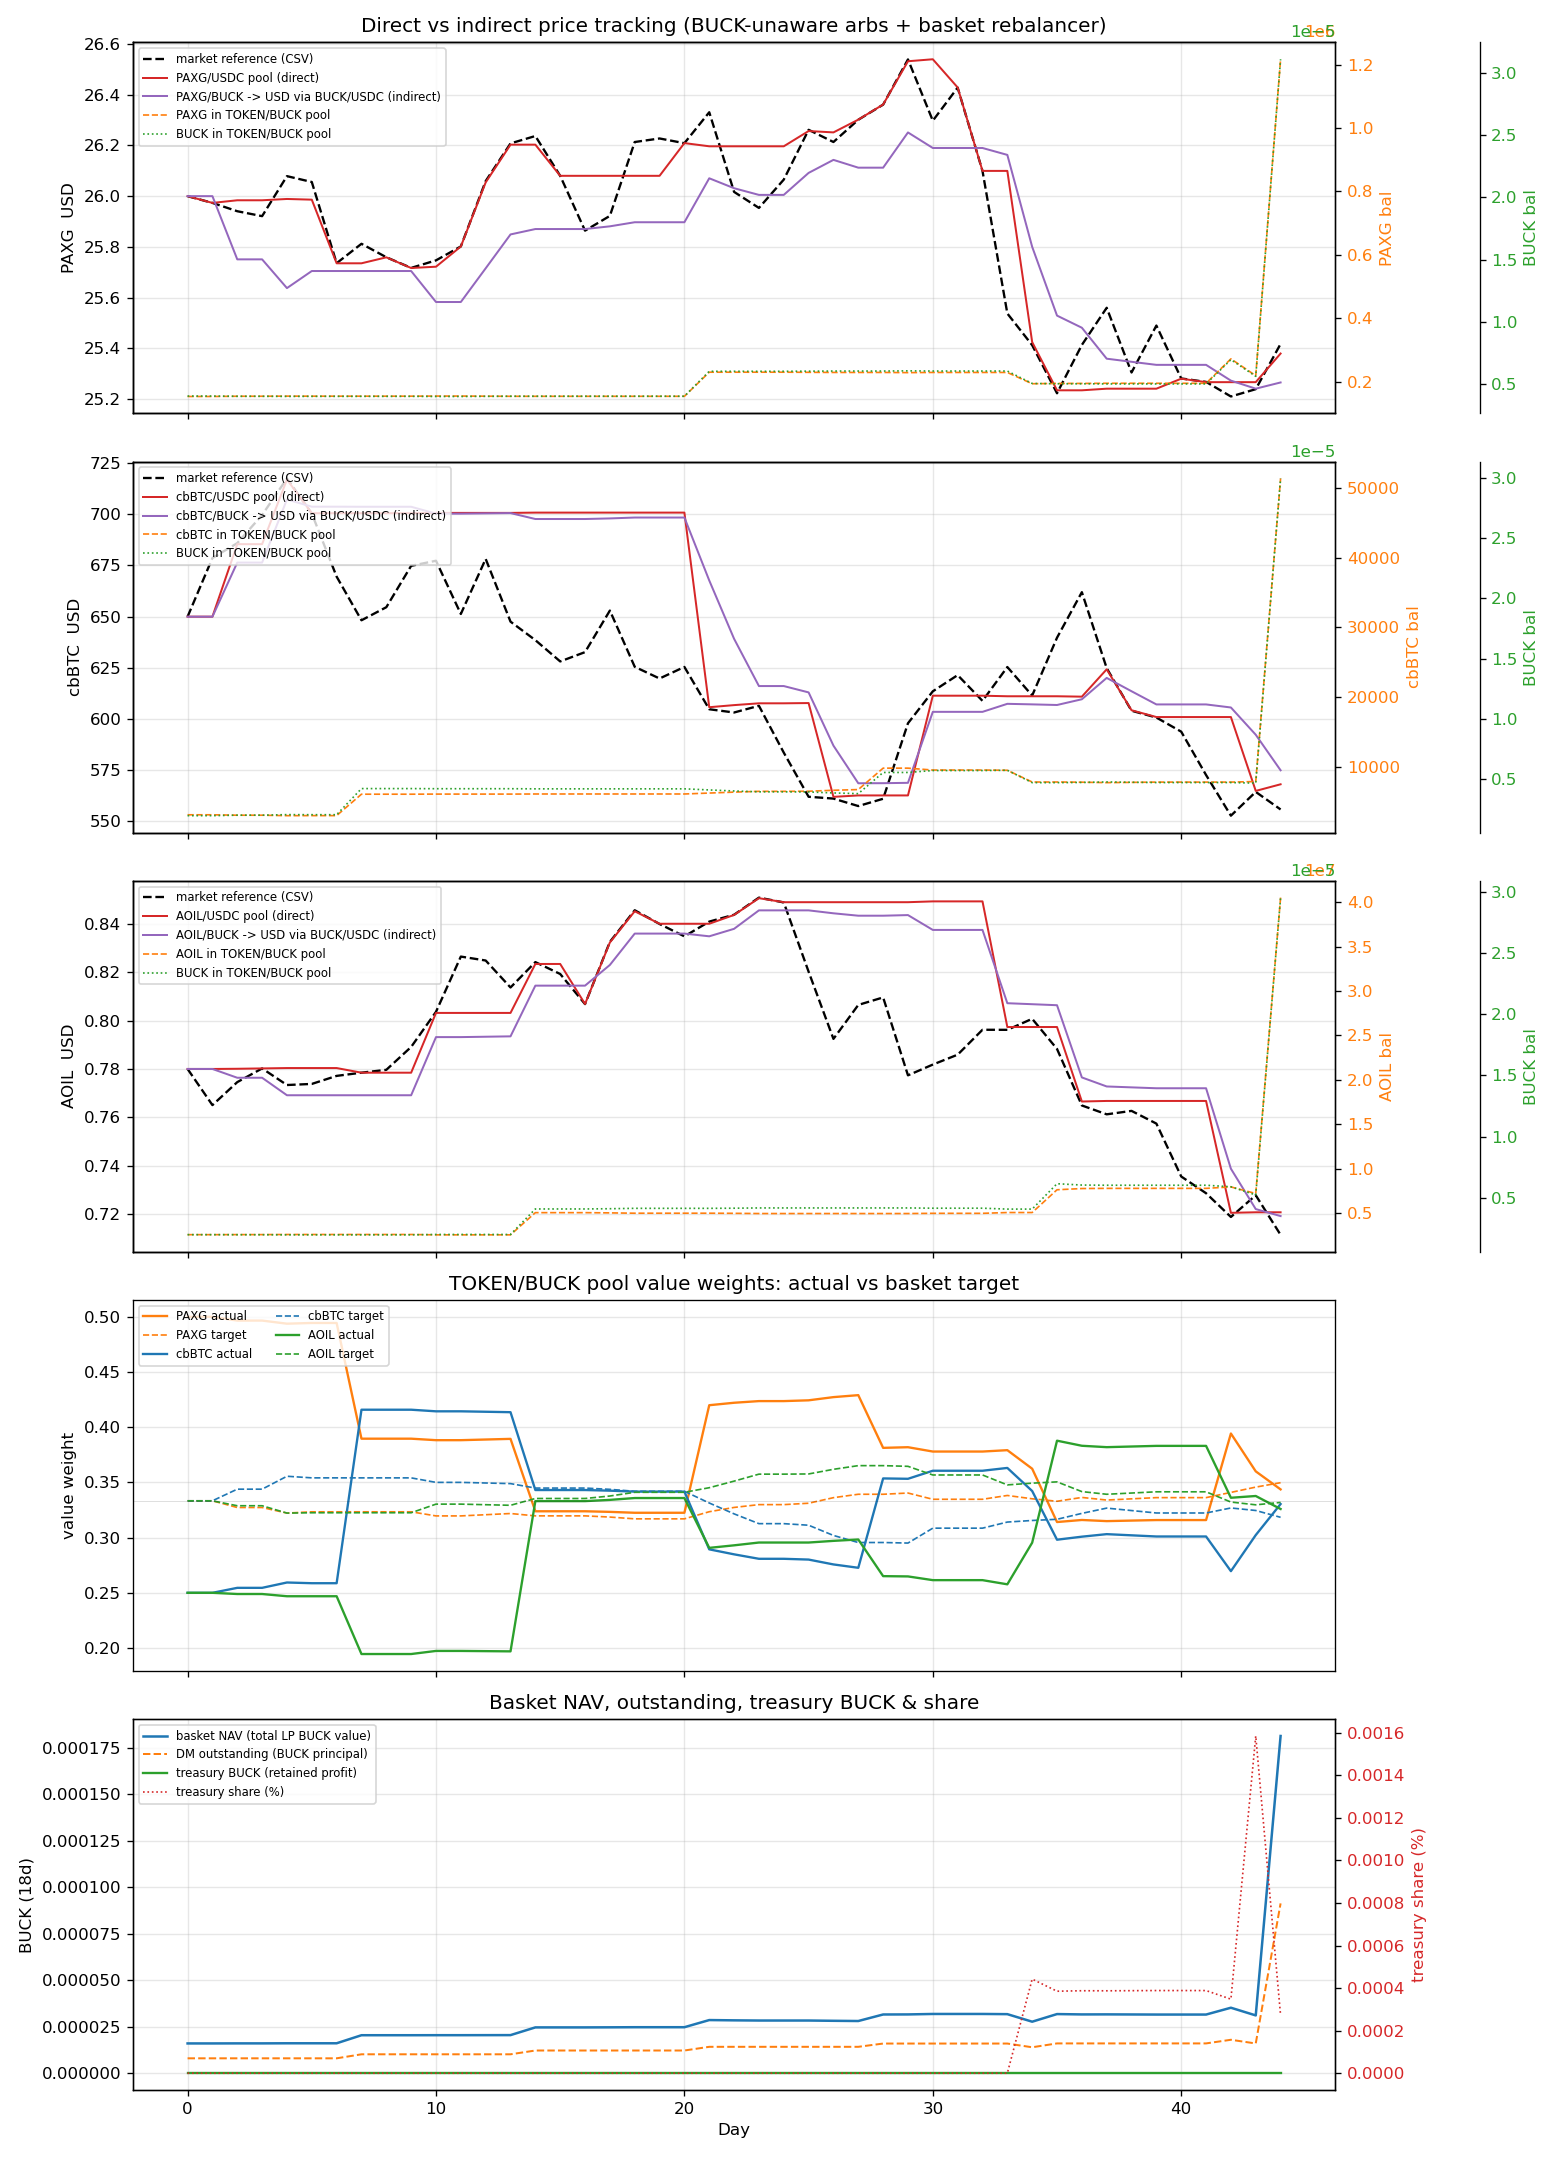
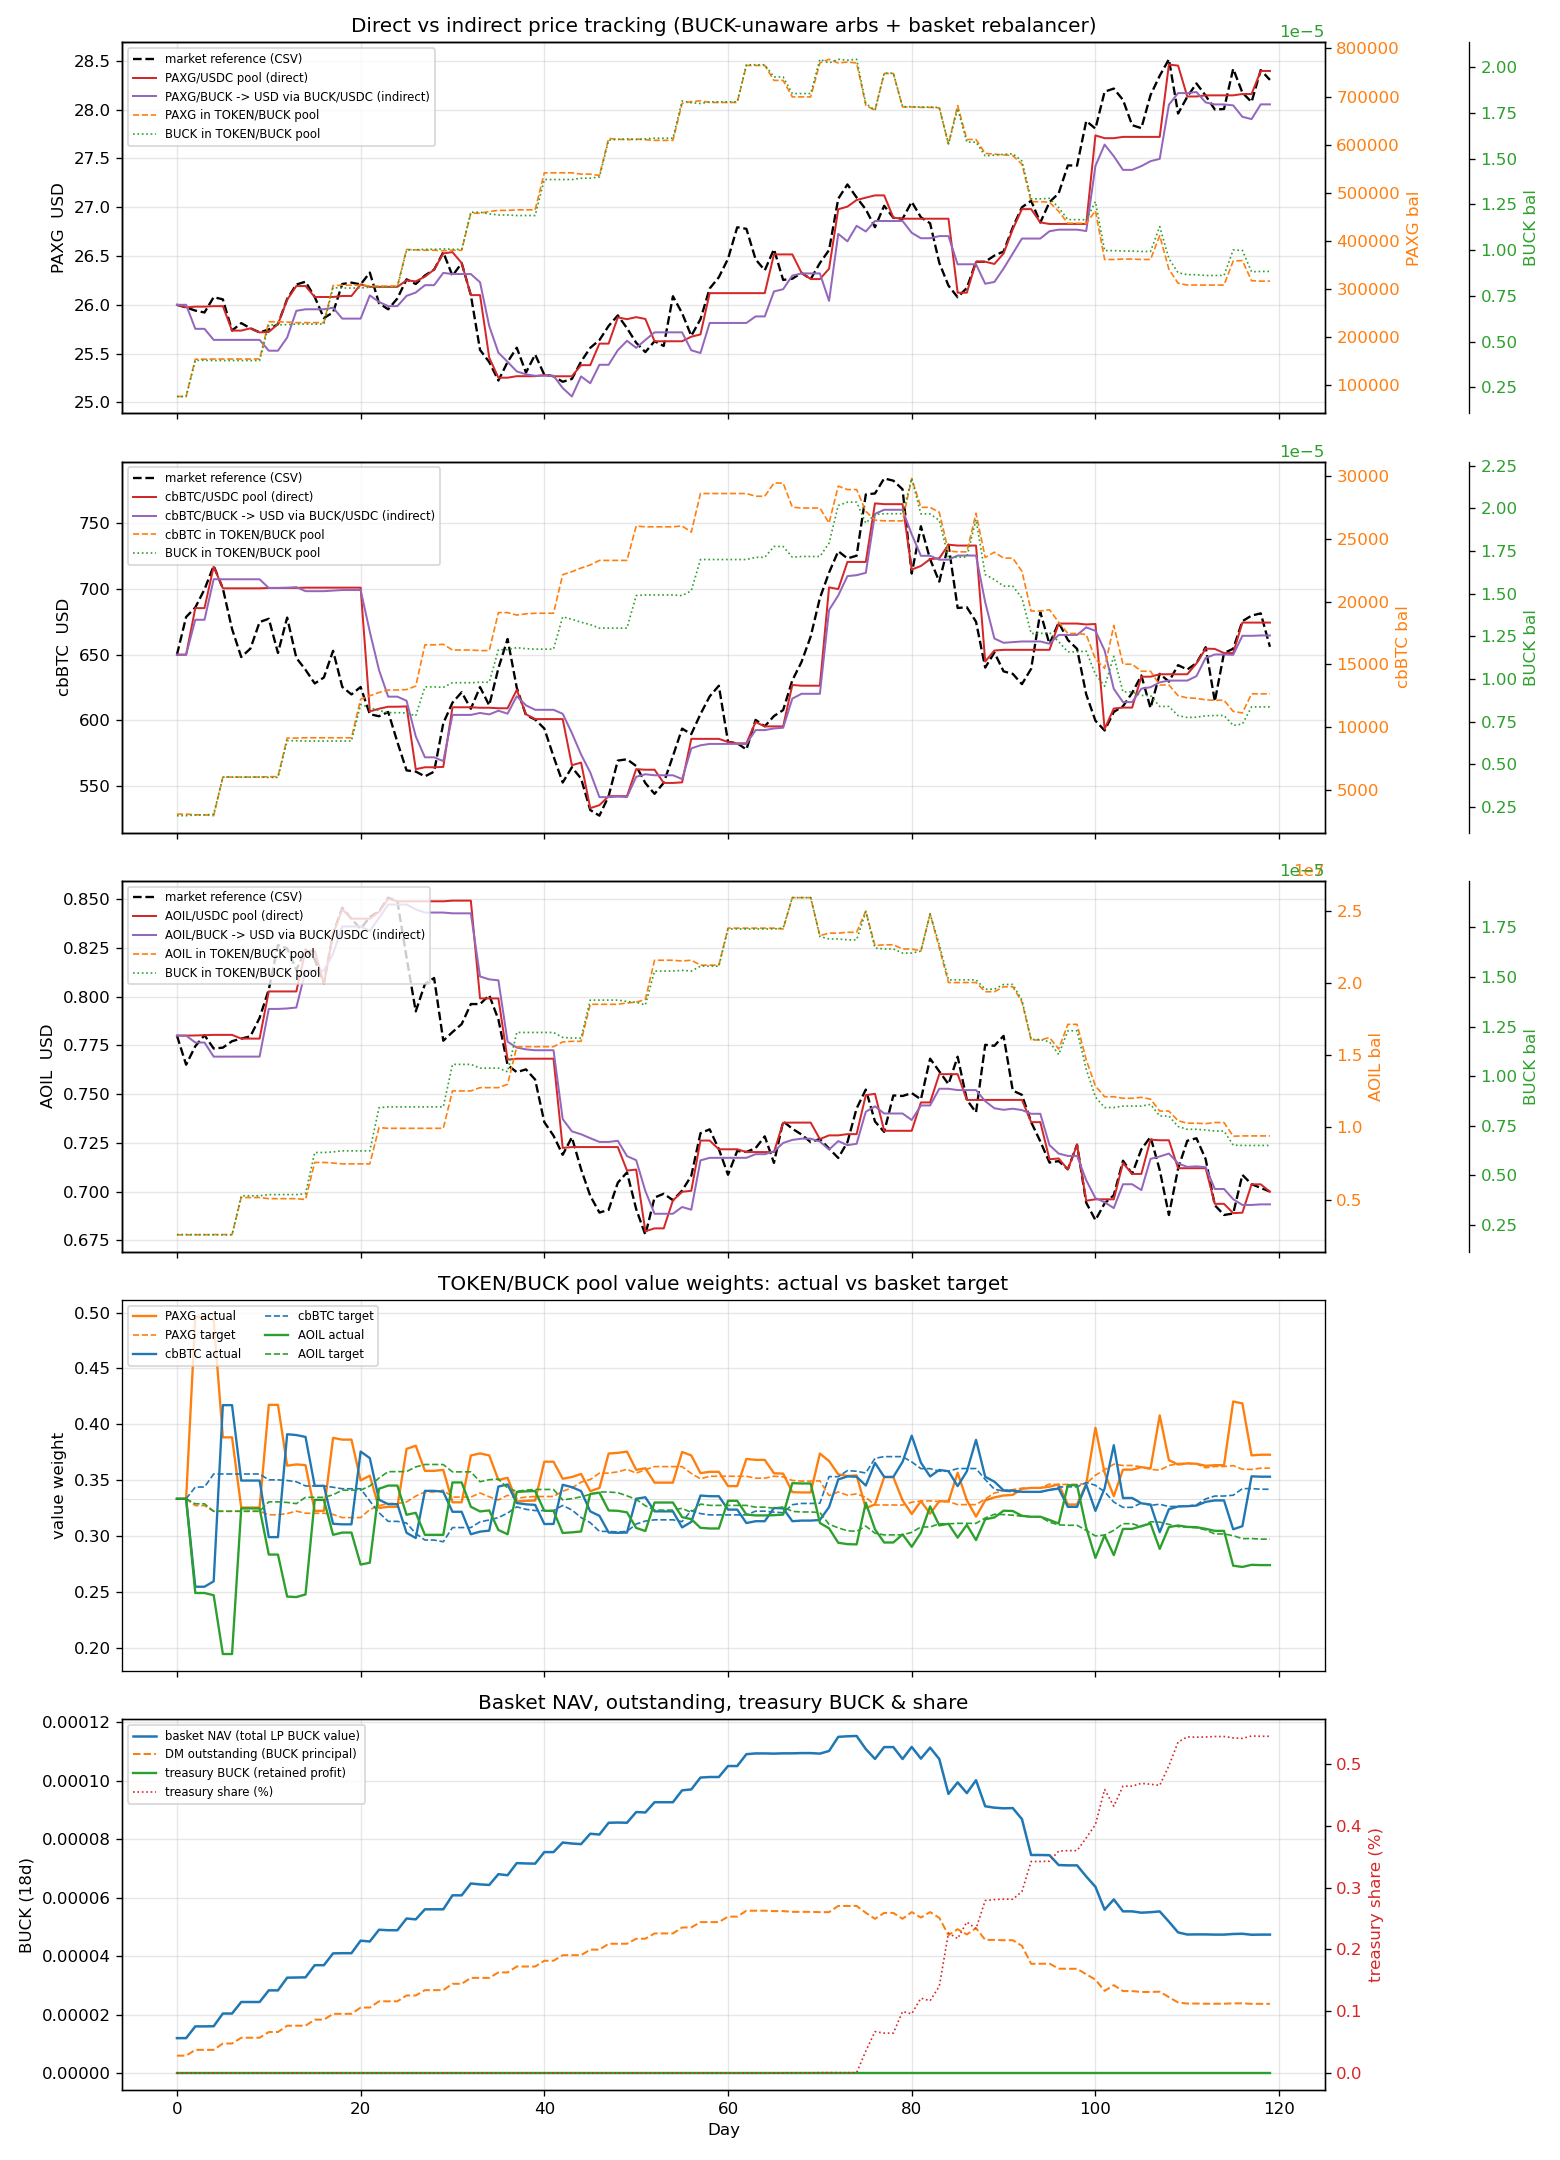
Working BuckBasket rebalancing sim

diff --git a/alberta_buck/sim/direct_mint.py b/alberta_buck/sim/direct_mint.py
@@ -36,9 +36,6 @@ class DirectMintAgent(Agent):
     """
 
     SEED_USDC = 2_000_000 * 10 ** 6    # ~$2M per agent (day-0 prices)
-    HOLD_MIN = 30                       # minimum hold (days)
-    HOLD_MAX = 90                       # maximum hold (days)
-    ENTRY_INTERVAL = 7                  # weekly entries after bootstrap
 
     _counter: int = 0                   # class-level instance counter
 
@@ -59,19 +56,23 @@ class DirectMintAgent(Agent):
         super().setup(d, scenario, rng)
         N = len(d.tokens)
         seq = self._seq
-        # First N agents are bootstrap: entered in `bootstrap()` before
-        # tick 0 — `_entry_day` is left as None so `act()` never enters
-        # them.  Remainder enter on a weekly cadence starting day 0 of
-        # the tick loop.
+        # First N agents are bootstrap: deposit before tick 0 (one per
+        # token so every pool has live liquidity).
         if seq < N:
-            self._entry_day = None    # bootstrap path
-            entry_for_exit = 0        # treat as "entered day 0" for exit timing
+            self._entry_day = None
+            entry_for_exit = 0
         else:
-            entry = (seq - N) * self.ENTRY_INTERVAL
-            self._entry_day = min(entry, scenario.days - 1)
+            # Stagger remaining agents evenly across the simulation horizon.
+            M = max(DirectMintAgent._counter - N, 1)
+            interval = scenario.days / (M + 1)
+            entry = (seq - N + 1) * interval
+            self._entry_day = min(int(entry), scenario.days - 1)
             entry_for_exit = entry
-        hold = self.HOLD_MIN + (seq * 37 + 13) % (self.HOLD_MAX - self.HOLD_MIN)
-        self._exit_day = min(entry_for_exit + hold, scenario.days)
+        # Hold for a meaningful fraction of remaining sim time.
+        remaining = max(scenario.days - entry_for_exit, 30)
+        hold = remaining * (50 + (seq * 37 + 13) % 30) // 100  # 50-80% of remaining
+        hold = max(hold, 30)  # floor at 30 days
+        self._exit_day = min(int(entry_for_exit + hold), scenario.days)
 
     def bootstrap(self, d, scenario, ctr) -> None:
         """Bootstrap path: seq < N agents deposit one per basket token
